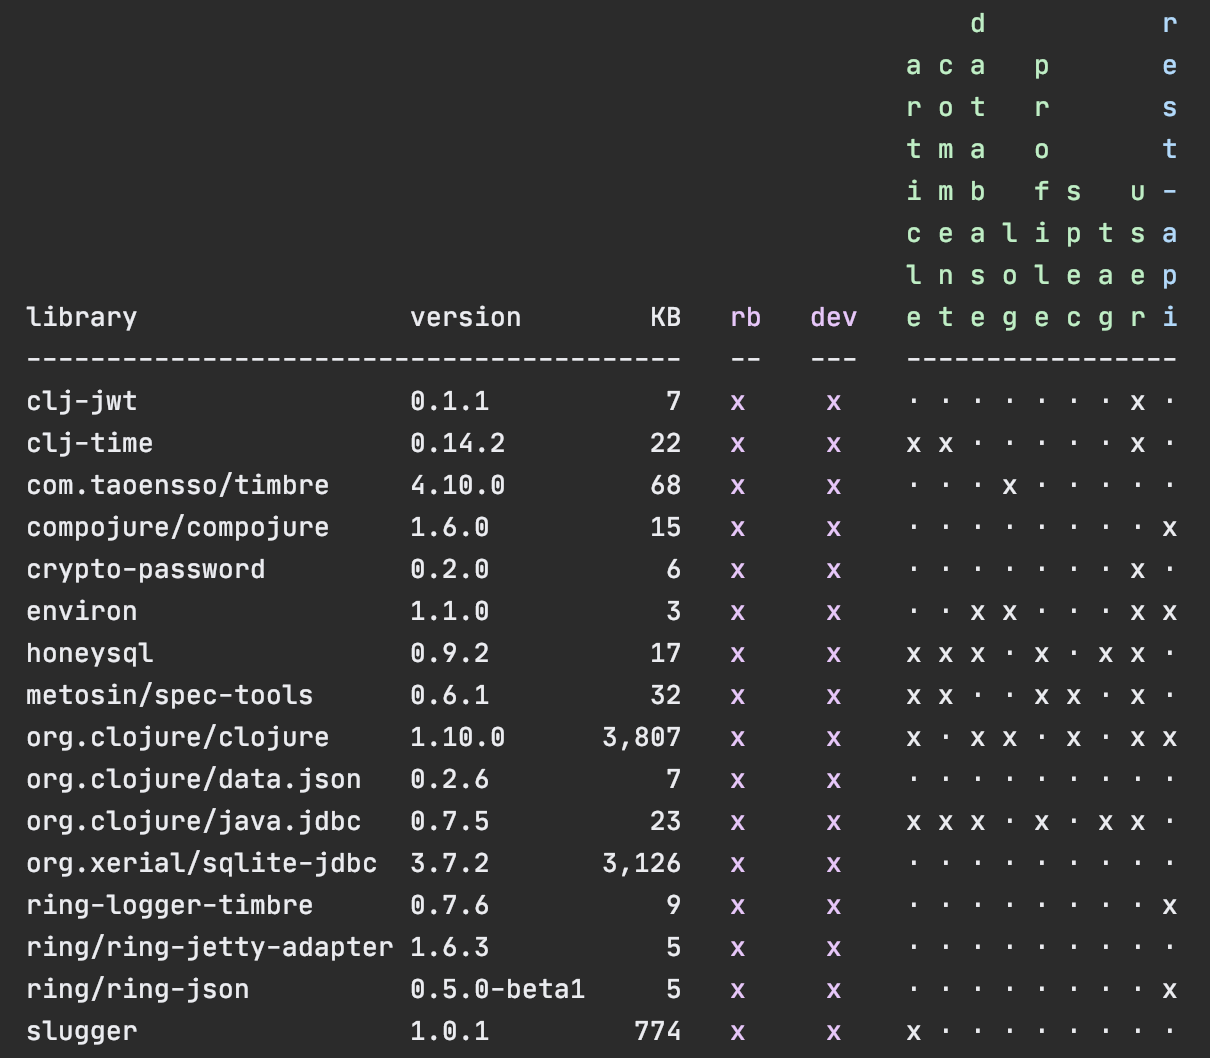
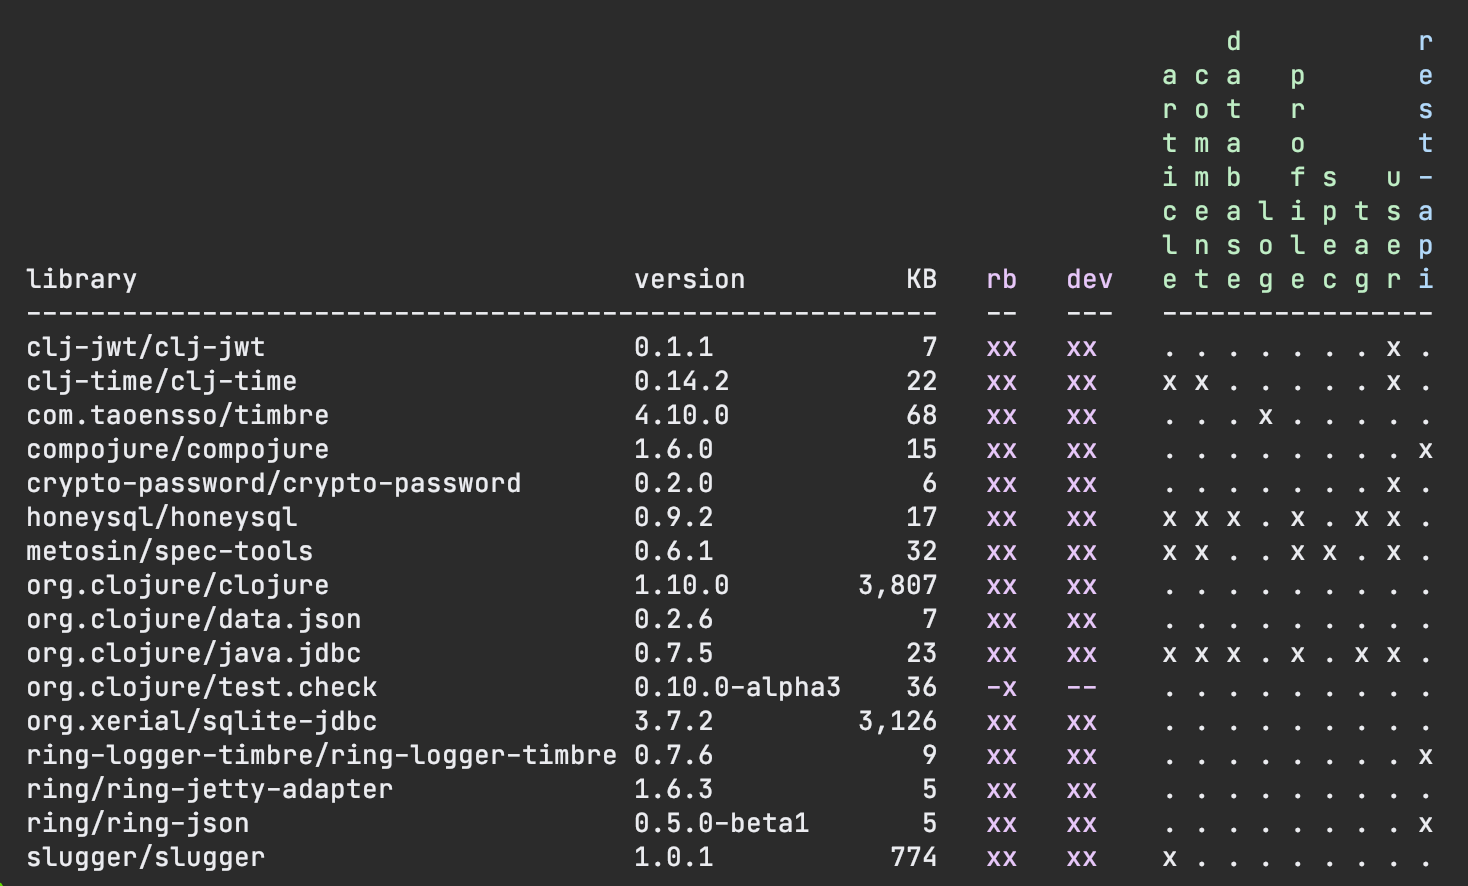
Also view test library dependencies in the 'libs' command.

diff --git a/readme.md b/readme.md
@@ -2282,32 +2282,46 @@ poly deps project:rb brick:article
 
 ## Libraries
 
-Libraries are specified in `deps.edn` in each brick and project:
-- Bases: `bases/BASE-DIR` > `deps.edn` > `:deps`
-- Components: `components/COMPONENT-DIR` > `deps.edn` > `:deps`
-- The development project: `./deps.edn` > `:aliases` > `:dev` > `:extra-deps`
-- Other projects: `projects/PROJECT-DIR` > `deps.edn` > `:deps`
+Libraries are specified in `deps.edn` in each component, base, and project:
+| Entity         | Type | Location |
+|:---------------|:-----|:------------------------------------------------|
+| Components     | src  | `components/COMPONENT-DIR` > `deps.edn` > `:deps`
+|                | test | `components/COMPONENT-DIR` > `deps.edn` > `:aliases` > `:test` > `:extra-deps`
+| Bases          | src  | `bases/BASE-DIR` > `deps.edn` > `:deps`
+|                | test | `bases/BASE-DIR` > `deps.edn` > `:aliases` > `:test` > `:extra-deps`
+| Dev project    | src  | `./deps.edn` > `:aliases` > `:dev` > `:extra-deps`
+|                | test | `./deps.edn` > `:aliases` > `:test` > `:extra-deps`
+| Other projects | src  | `projects/PROJECT-DIR` > `deps.edn` > `:deps`
+|                | test | `projects/PROJECT-DIR` > `deps.edn` > `:aliases` > `:test` > `:extra-deps`
 
-To list all libraries used in the workspace, execute the [libs](#libs) command:
+The tool parses each `deps.edn` file and looks for library dependencies, which are then used by the [libs](doc/commands.md#libs) 
+and [test](doc/commands.md#test) commands. 
+
+To list all libraries used in the workspace, execute the [libs](doc/commands.md#libs) command:
 ```
 poly libs
 ```
-<img src="images/realworld-lib-deps.png" width="60%">
+<img src="images/realworld-lib-deps.png" width="80%">
 
 Libraries can be specified in three different ways in `tools.deps`:
 
 | Type  | Description |
 |:------|:------------------------------------------------------|
-| Maven | As a [Maven](https://maven.apache.org/) dependency. Example: `clj-time/clj-time {:mvn/version "0.15.2"}` where the key is the Maven `groupId/artifactId`. Those dependencies are stored locally in the `~/.m2/repositories` directory. |
+| Maven | As a [Maven](https://maven.apache.org/) dependency. Example: `clj-time/clj-time {:mvn/version "0.15.2"}` where the key is the Maven `groupId/artifactId`. Those dependencies are stored locally in the `~/.m2/repositories` directory (but can be changed in `~/.polylith/config.edn`, property `m2-dir`). |
 | Local | As a local dependency. Example: `clj-time {:local/root "/local-libs/clj-time-0.15.2.jar"}` where the key is an arbitrary identifier. A local dependency is a path to a locally stored file. |
 | Git   | As a [Git](https://git-scm.com/) dependency. Example: `clj-time/clj-time {:git/url "https://github.com/clj-time/clj-time.git", :sha "d9ed4e46c6b42271af69daa1d07a6da2df455fab"}` where the key must match the path for the library in `~/.gitlibs/libs` (to be able to calculate the `KB` column). |
  
 The KB column shows the size of each library in kilobytes. If you get the key path wrong or if the library
 hasn't been downloaded yet, then it will be shown as blank.
 
+The project columns consists of two characters, e.g. `xx`, where the first says whether it is a dependency used by the `src` code.
+The second tells if it's used by the `test` code.
+
+The brick columns is marked with an `x` if the library is used by the `src` code.
+
 If we have a lot of libraries, we can choose a more compact format by setting `:compact-views` to `#{"libs"}` in `./deps.edn`:
 
-<img src="images/realworld-lib-deps-compact.png" width="52%">
+<img src="images/realworld-lib-deps-compact.png" width="70%">
 
 ## Context
 
@@ -2539,6 +2553,20 @@ poly ws get:components:user
                     :namespace "se.example.user.interface-test"}],
  :type "component"}
 ```
+
+Earlier, we used the [libs](doc/commands.md#libs) to show library usage.
+The same information is also stored in the workspace structure:, e.g.:
+```
+poly ws get:components:article:lib-deps
+```
+```clojure
+{"clj-time/clj-time" {:size 22783, :type "maven", :version "0.14.2"},
+ "honeysql/honeysql" {:size 17747, :type "maven", :version "0.9.2"},
+ "metosin/spec-tools" {:size 33615, :type "maven", :version "0.6.1"},
+ "org.clojure/java.jdbc" {:size 24249, :type "maven", :version "0.7.5"},
+ "slugger/slugger" {:size 792835, :type "maven", :version "1.0.1"}}
+```
+
 There is a way to store the workspace state to a file, and that is to give the `out` parameter, e.g.:
 ```
 poly ws out:ws.edn
